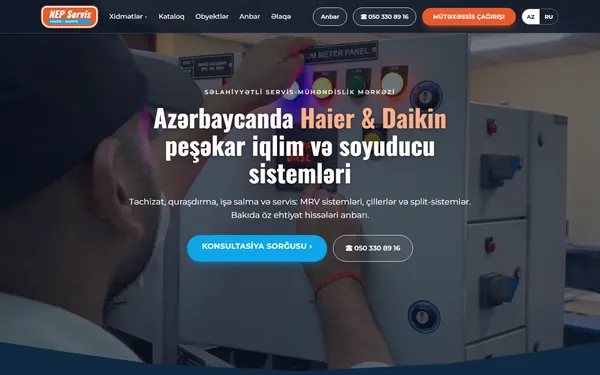
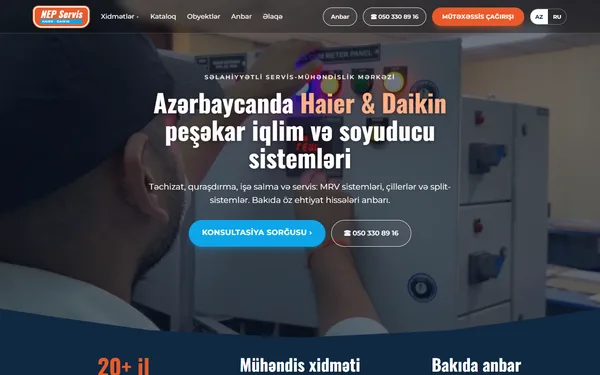
Витрина: обновлён 04 (пропорции по замерам), новая миниатюра

diff --git a/04-medley/ru/index.html b/04-medley/ru/index.html
@@ -108,6 +108,17 @@ footer .bot{border-top:1px solid #2a2a2a;margin-top:40px;padding:22px 0;font-siz
 @media(max-width:1000px){.sub{position:static;display:flex;background:none;border:0;box-shadow:none;padding:0 0 0 14px}nav.main{display:none;position:absolute;top:80px;left:0;right:0;background:#0f1928;flex-direction:column;padding:20px;gap:14px}nav.main.open{display:flex}.menu-btn{display:block}.hdr-r .pill-o.cl{display:none}.grid3,.cards4{grid-template-columns:repeat(2,1fr)}.two-col{grid-template-columns:1fr}footer .cols{grid-template-columns:1fr 1fr}}
 @media(max-width:640px){.hero{min-height:720px;padding:120px 16px 160px}.hero h1{font-size:34px}.hero p{font-size:17px}.btn.sky{font-size:15px;padding:16px 24px}.trust ul,.grid3,.cards4,.objs{grid-template-columns:1fr}.hdr-r>.btn,.hdr-r>.pill-o{display:none}.logo{font-size:18px}.sec h2.dk,.band h2,.contact h2{font-size:28px}footer .cols{grid-template-columns:1fr}.hero>.curve{height:70px}.hero>.notch{display:none}.sec{padding:48px 0}.sec-navy{padding:44px 0 56px}header.top .wrap{gap:12px}}
 @media(prefers-reduced-motion:reduce){*{transition:none!important;scroll-behavior:auto!important}}
+/* пропорции по замерам образца (1440/1920), только широкий экран */
+@media(min-width:1101px){
+header.top{background:rgba(0,0,0,.3)}
+.wrap{padding:0}@media(max-width:1300px){.wrap{padding:0 20px}}
+.hero{min-height:calc(100vh - 80px);align-items:flex-start;padding:max(80px,calc(176px + (100vh - 900px)*.5)) 20px 0}
+.hero>div{max-width:749px}
+.btn{padding:12px 24px;line-height:20px}.btn.sky{padding:16px 32px;line-height:28px}.hero .two .btn{padding:16px 32px;line-height:28px}
+.sec-navy h2{line-height:1.2}.band h2,.sec h2{line-height:1.25}
+.trust{padding:30px 0 31px}
+.sec,.sec-navy{padding-top:64px;padding-bottom:64px}
+}
 </style></head><body>
 <a class="skip" href="#main">К содержимому</a>
 <header class="top"><div class="wrap"><a class="logo" href="#" aria-label="NEP Servis — на главную"><span>NEP Servis<small><span lang="en">Haier</span> · <span lang="en">Daikin</span></small></span></a>

diff --git a/04-medley/index.html b/04-medley/index.html
@@ -108,6 +108,17 @@ footer .bot{border-top:1px solid #2a2a2a;margin-top:40px;padding:22px 0;font-siz
 @media(max-width:1000px){.sub{position:static;display:flex;background:none;border:0;box-shadow:none;padding:0 0 0 14px}nav.main{display:none;position:absolute;top:80px;left:0;right:0;background:#0f1928;flex-direction:column;padding:20px;gap:14px}nav.main.open{display:flex}.menu-btn{display:block}.hdr-r .pill-o.cl{display:none}.grid3,.cards4{grid-template-columns:repeat(2,1fr)}.two-col{grid-template-columns:1fr}footer .cols{grid-template-columns:1fr 1fr}}
 @media(max-width:640px){.hero{min-height:720px;padding:120px 16px 160px}.hero h1{font-size:34px}.hero p{font-size:17px}.btn.sky{font-size:15px;padding:16px 24px}.trust ul,.grid3,.cards4,.objs{grid-template-columns:1fr}.hdr-r>.btn,.hdr-r>.pill-o{display:none}.logo{font-size:18px}.sec h2.dk,.band h2,.contact h2{font-size:28px}footer .cols{grid-template-columns:1fr}.hero>.curve{height:70px}.hero>.notch{display:none}.sec{padding:48px 0}.sec-navy{padding:44px 0 56px}header.top .wrap{gap:12px}}
 @media(prefers-reduced-motion:reduce){*{transition:none!important;scroll-behavior:auto!important}}
+/* пропорции по замерам образца (1440/1920), только широкий экран */
+@media(min-width:1101px){
+header.top{background:rgba(0,0,0,.3)}
+.wrap{padding:0}@media(max-width:1300px){.wrap{padding:0 20px}}
+.hero{min-height:calc(100vh - 80px);align-items:flex-start;padding:max(80px,calc(176px + (100vh - 900px)*.5)) 20px 0}
+.hero>div{max-width:749px}
+.btn{padding:12px 24px;line-height:20px}.btn.sky{padding:16px 32px;line-height:28px}.hero .two .btn{padding:16px 32px;line-height:28px}
+.sec-navy h2{line-height:1.2}.band h2,.sec h2{line-height:1.25}
+.trust{padding:30px 0 31px}
+.sec,.sec-navy{padding-top:64px;padding-bottom:64px}
+}
 </style></head><body>
 <a class="skip" href="#main">Məzmuna keç</a>
 <header class="top"><div class="wrap"><a class="logo" href="#" aria-label="NEP Servis — ana səhifə"><span>NEP Servis<small><span lang="en">Haier</span> · <span lang="en">Daikin</span></small></span></a>
